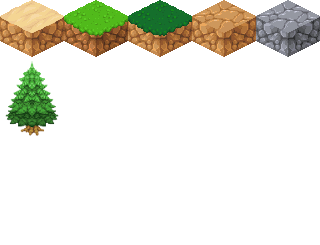
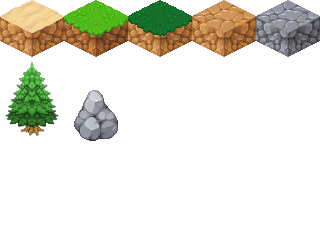
Added support for units

diff --git a/js/display.js b/js/display.js
@@ -6,7 +6,9 @@ Responsible for drawing on the client's window
 tileSize = { "x" : 64, "y" : 57, "dx" : 32, "dy" : 16 }
 var terrainTiles = new Image();
 terrainTiles.src = 'img/isometric_tile.png';
-terrainTiles.imageSmoothingEnabled = false
+
+var unitsSprite = new Image();
+unitsSprite.src = 'img/sword64.png';
 
 // Load the canvas
 var canvas = {
@@ -54,7 +56,7 @@ function display() {
 		f = (canvasWidth * 0.9) / (engine.mapSize * tileSize.x)
 	}
 
-	var type;
+	var type, obstacle, unit
 
 	// For each cell, draw the corresponding tile
 	for (var i = 0; i < engine.mapSize; i++) {
@@ -64,8 +66,13 @@ function display() {
 
 			obstacle = engine.obstacleMap[i][j]
 			if (obstacle) {
-
 				drawTile( ctx.obstacles, terrainTiles, f, 1, 2, obstacle - 1, 1, i, j )
+			}
+
+			unit = engine.unitsMap[i][j]
+			if (unit) {
+				// TODO
+				drawTile( ctx.players, unitsSprite, f, 1, 1, unit.type, 1, i, j )
 			}
 		}
 	}

diff --git a/js/engine.js b/js/engine.js
@@ -5,17 +5,21 @@ The Engine handles the game rules and update its state
 function Engine( gameConstants ) {
 	// Initialize the map
 	this.mapSize = gameConstants["map_size"]
-	this.terrainMap = [];
-	this.obstacleMap = [];
+	this.terrainMap = []
+	this.obstacleMap = []
+	this.unitsMap = []
 
 	// Default values
 	for ( var i = 0 ; i < this.mapSize ; i++) {
-		this.terrainMap[i] = new Array(this.mapSize)
-		this.obstacleMap[i] = new Array(this.mapSize)
+		this.terrainMap[i] = new Array( this.mapSize )
+		this.obstacleMap[i] = new Array( this.mapSize )
+		this.unitsMap[i] = new Array( this.mapSize )
 	}
 
 	// Generate the terrain and what is on it
 	generateMap( this.terrainMap, this.obstacleMap, this.mapSize )
+
+	this.unitsMap[0][0] = new Unit( 0, 0, { "x" : 0, "y" : 0}, 0 )
 }
 //
 // Engine.prototype.del = function (id) {

diff --git a/js/mapgeneration.js b/js/mapgeneration.js
@@ -5,6 +5,7 @@ All the generation algorithm are implemented here
 function generateMap( terrainMap, obstacleMap, mapSize ) {
 	var noiseGen = new ClassicalNoise()
 	var scale = 0.1
+	var boulderDensity = 0.01
 	var noise
 
 	// Basic landscape
@@ -18,6 +19,9 @@ function generateMap( terrainMap, obstacleMap, mapSize ) {
 				obstacleMap[i][j] = 1
 			} else {
 				obstacleMap[i][j] = 0
+			}
+			if (Math.random() < boulderDensity) {
+				obstacleMap[i][j] = 2
 			}
 		}
 	}

diff --git a/js/unit.js b/js/unit.js
@@ -1,0 +1,12 @@
+/*
+Handle the unit class, intanciated for every unit in the game
+*/
+
+var Unit = function ( type, side, position, dir ) {
+	this.type = type
+	this.side = side
+	this.position = position
+	this.direction = dir
+	this.action = 0
+	this.key = 0
+}

diff --git a/index.html b/index.html
@@ -20,6 +20,7 @@
 
 	<script src="js/perlinnoise.js"></script>
 	<script src="js/mapgeneration.js"></script>
+	<script src="js/unit.js"></script>
 	<script src="js/engine.js"></script>
 	<script src="js/display.js"></script>
 	<script src="js/game.js"></script>
